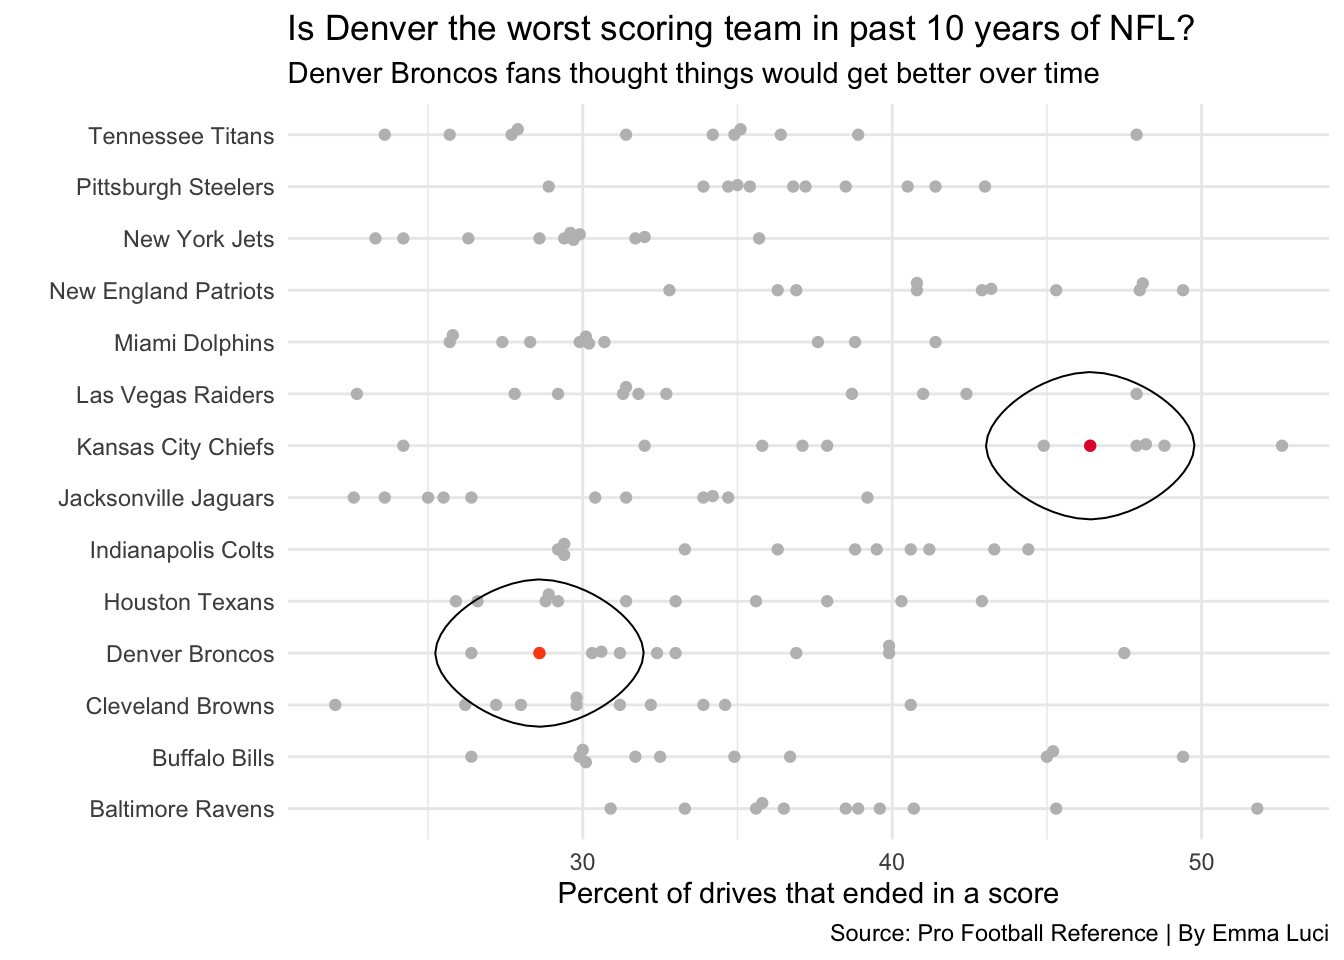
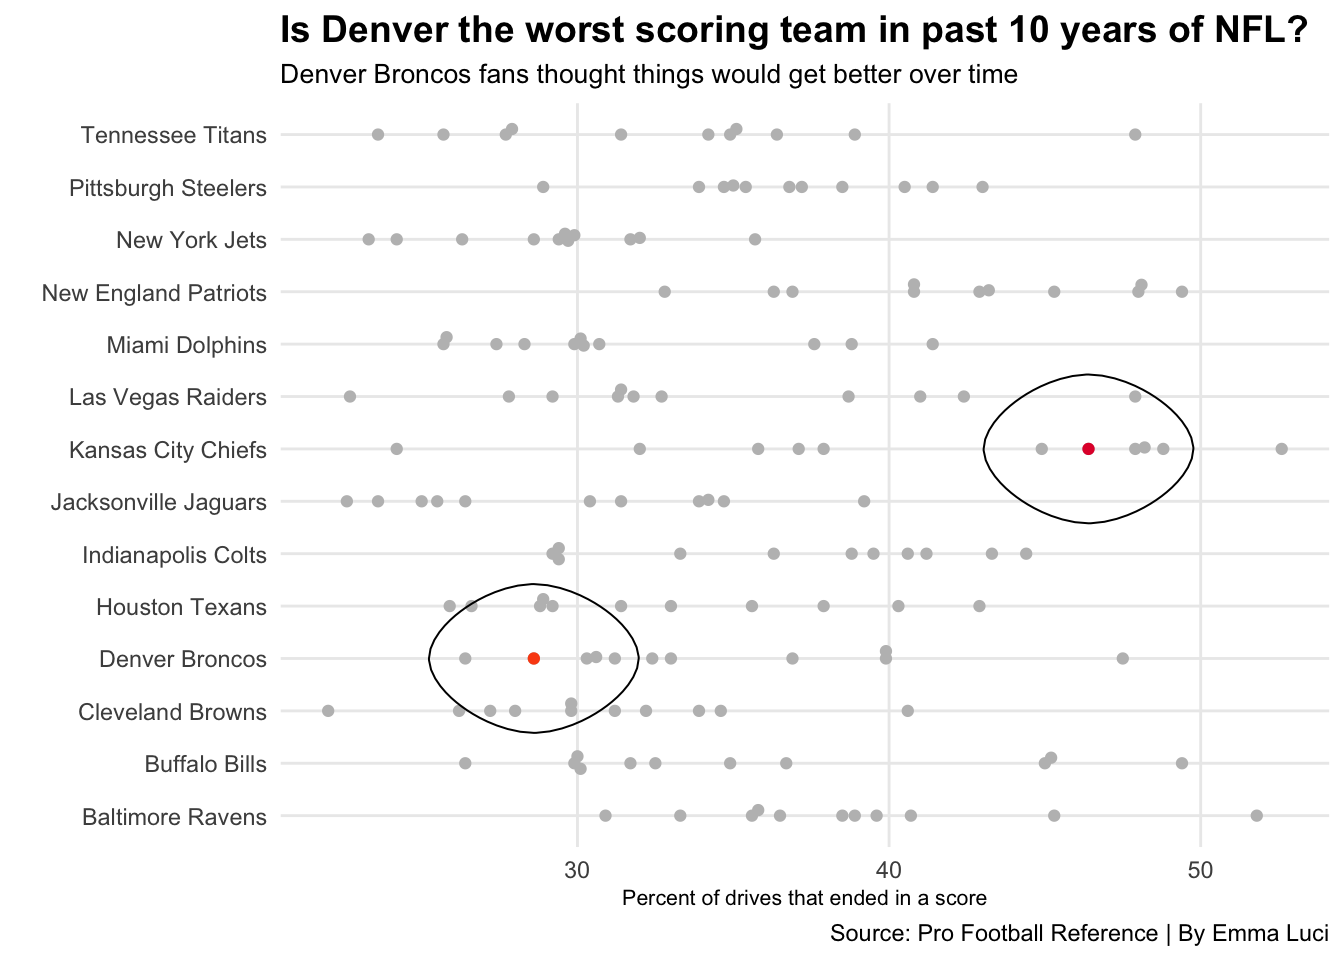
broncos post 1

diff --git a/posts/broncos/index.html b/posts/broncos/index.html
@@ -417,7 +417,13 @@ Specify the column types or set `show_col_types = FALSE` to quiet this message.
 <span id="cb29-17"><a href="#cb29-17" aria-hidden="true" tabindex="-1"></a>    <span class="at">caption=</span><span class="st">"Source: Pro Football Reference | By Emma Luci"</span>,</span>
 <span id="cb29-18"><a href="#cb29-18" aria-hidden="true" tabindex="-1"></a>    <span class="at">x=</span><span class="st">""</span>, </span>
 <span id="cb29-19"><a href="#cb29-19" aria-hidden="true" tabindex="-1"></a>    <span class="at">y=</span><span class="st">"Points Scored"</span>) <span class="sc">+</span> </span>
-<span id="cb29-20"><a href="#cb29-20" aria-hidden="true" tabindex="-1"></a>  <span class="fu">theme_minimal</span>()</span></code><button title="Copy to Clipboard" class="code-copy-button"><i class="bi"></i></button></pre></div>
+<span id="cb29-20"><a href="#cb29-20" aria-hidden="true" tabindex="-1"></a><span class="fu">theme_minimal</span>() <span class="sc">+</span></span>
+<span id="cb29-21"><a href="#cb29-21" aria-hidden="true" tabindex="-1"></a>  <span class="fu">theme</span>(</span>
+<span id="cb29-22"><a href="#cb29-22" aria-hidden="true" tabindex="-1"></a>   <span class="at">plot.title =</span> <span class="fu">element_text</span>(<span class="at">size =</span> <span class="dv">14</span>, <span class="at">face =</span> <span class="st">"bold"</span>),</span>
+<span id="cb29-23"><a href="#cb29-23" aria-hidden="true" tabindex="-1"></a>    <span class="at">axis.title =</span> <span class="fu">element_text</span>(<span class="at">size =</span> <span class="dv">8</span>), </span>
+<span id="cb29-24"><a href="#cb29-24" aria-hidden="true" tabindex="-1"></a>    <span class="at">plot.subtitle =</span> <span class="fu">element_text</span>(<span class="at">size=</span><span class="dv">10</span>), </span>
+<span id="cb29-25"><a href="#cb29-25" aria-hidden="true" tabindex="-1"></a>    <span class="at">panel.grid.minor =</span> <span class="fu">element_blank</span>()</span>
+<span id="cb29-26"><a href="#cb29-26" aria-hidden="true" tabindex="-1"></a>    ) </span></code><button title="Copy to Clipboard" class="code-copy-button"><i class="bi"></i></button></pre></div>
 </details>
 <div class="cell-output-display">
 <p><img src="index_files/figure-html/unnamed-chunk-4-1.png" class="img-fluid" width="672"></p>
@@ -464,7 +470,13 @@ Specify the column types or set `show_col_types = FALSE` to quiet this message.
 <span id="cb31-11"><a href="#cb31-11" aria-hidden="true" tabindex="-1"></a>    <span class="at">caption=</span><span class="st">"Source: Pro Football Reference | By Emma Luci"</span>,</span>
 <span id="cb31-12"><a href="#cb31-12" aria-hidden="true" tabindex="-1"></a>    <span class="at">x=</span><span class="st">"Percent of drives that ended in a score"</span>, </span>
 <span id="cb31-13"><a href="#cb31-13" aria-hidden="true" tabindex="-1"></a>    <span class="at">y=</span><span class="st">""</span>) <span class="sc">+</span> </span>
-<span id="cb31-14"><a href="#cb31-14" aria-hidden="true" tabindex="-1"></a>  <span class="fu">theme_minimal</span>()</span></code><button title="Copy to Clipboard" class="code-copy-button"><i class="bi"></i></button></pre></div>
+<span id="cb31-14"><a href="#cb31-14" aria-hidden="true" tabindex="-1"></a><span class="fu">theme_minimal</span>() <span class="sc">+</span></span>
+<span id="cb31-15"><a href="#cb31-15" aria-hidden="true" tabindex="-1"></a>  <span class="fu">theme</span>(</span>
+<span id="cb31-16"><a href="#cb31-16" aria-hidden="true" tabindex="-1"></a>   <span class="at">plot.title =</span> <span class="fu">element_text</span>(<span class="at">size =</span> <span class="dv">14</span>, <span class="at">face =</span> <span class="st">"bold"</span>),</span>
+<span id="cb31-17"><a href="#cb31-17" aria-hidden="true" tabindex="-1"></a>    <span class="at">axis.title =</span> <span class="fu">element_text</span>(<span class="at">size =</span> <span class="dv">8</span>), </span>
+<span id="cb31-18"><a href="#cb31-18" aria-hidden="true" tabindex="-1"></a>    <span class="at">plot.subtitle =</span> <span class="fu">element_text</span>(<span class="at">size=</span><span class="dv">10</span>), </span>
+<span id="cb31-19"><a href="#cb31-19" aria-hidden="true" tabindex="-1"></a>    <span class="at">panel.grid.minor =</span> <span class="fu">element_blank</span>()</span>
+<span id="cb31-20"><a href="#cb31-20" aria-hidden="true" tabindex="-1"></a>    ) </span></code><button title="Copy to Clipboard" class="code-copy-button"><i class="bi"></i></button></pre></div>
 </details>
 <div class="cell-output-display">
 <p><img src="index_files/figure-html/unnamed-chunk-6-1.png" class="img-fluid" width="672"></p>
@@ -478,11 +490,11 @@ Specify the column types or set `show_col_types = FALSE` to quiet this message.
 <span id="cb32-3"><a href="#cb32-3" aria-hidden="true" tabindex="-1"></a>  <span class="fu">geom_bump</span>(<span class="at">data=</span>scoring, <span class="fu">aes</span>(<span class="at">x=</span>Season, <span class="at">y=</span>Rk, <span class="at">color=</span>Tm)) <span class="sc">+</span> </span>
 <span id="cb32-4"><a href="#cb32-4" aria-hidden="true" tabindex="-1"></a>  <span class="fu">geom_point</span>(<span class="at">data=</span>scoring, <span class="fu">aes</span>(<span class="at">x=</span>Season, <span class="at">y=</span>Rk, <span class="at">color=</span>Tm), <span class="at">size =</span> <span class="dv">4</span>) <span class="sc">+</span></span>
 <span id="cb32-5"><a href="#cb32-5" aria-hidden="true" tabindex="-1"></a>   <span class="fu">labs</span>(</span>
-<span id="cb32-6"><a href="#cb32-6" aria-hidden="true" tabindex="-1"></a>    <span class="at">title=</span><span class="st">"Broncos vs. Chiefs over the last decade"</span>, </span>
+<span id="cb32-6"><a href="#cb32-6" aria-hidden="true" tabindex="-1"></a>    <span class="at">title=</span><span class="st">"How do the Broncos compare to the Chiefs?"</span>, </span>
 <span id="cb32-7"><a href="#cb32-7" aria-hidden="true" tabindex="-1"></a>    <span class="at">subtitle=</span><span class="st">"The loss of Peyton Manning caused a hit to the QB situation in Denver"</span>,</span>
 <span id="cb32-8"><a href="#cb32-8" aria-hidden="true" tabindex="-1"></a>    <span class="at">caption=</span><span class="st">"Source: Pro Football Reference | By Emma Luci"</span>,</span>
 <span id="cb32-9"><a href="#cb32-9" aria-hidden="true" tabindex="-1"></a>    <span class="at">x=</span><span class="st">""</span>, </span>
-<span id="cb32-10"><a href="#cb32-10" aria-hidden="true" tabindex="-1"></a>    <span class="at">y=</span><span class="st">""</span>) <span class="sc">+</span> </span>
+<span id="cb32-10"><a href="#cb32-10" aria-hidden="true" tabindex="-1"></a>    <span class="at">y=</span><span class="st">"Ranking"</span>) <span class="sc">+</span> </span>
 <span id="cb32-11"><a href="#cb32-11" aria-hidden="true" tabindex="-1"></a>  <span class="fu">theme_minimal</span>() <span class="sc">+</span></span>
 <span id="cb32-12"><a href="#cb32-12" aria-hidden="true" tabindex="-1"></a>  <span class="fu">theme</span>(</span>
 <span id="cb32-13"><a href="#cb32-13" aria-hidden="true" tabindex="-1"></a>    <span class="at">legend.position =</span> <span class="st">"none"</span>,</span>
